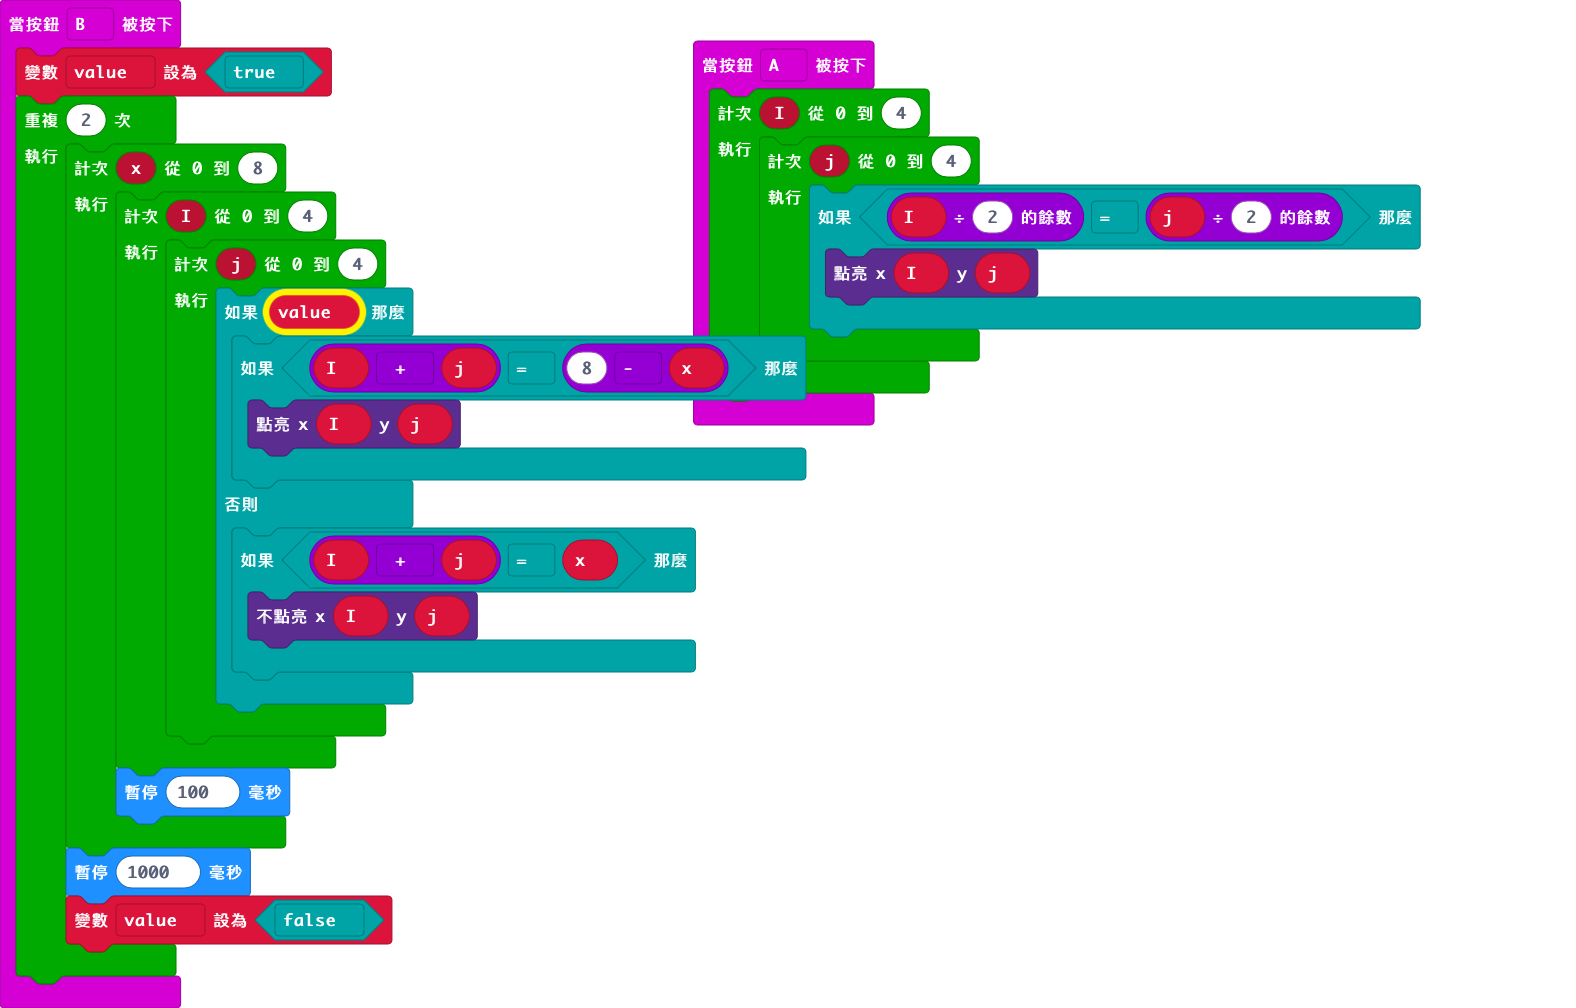
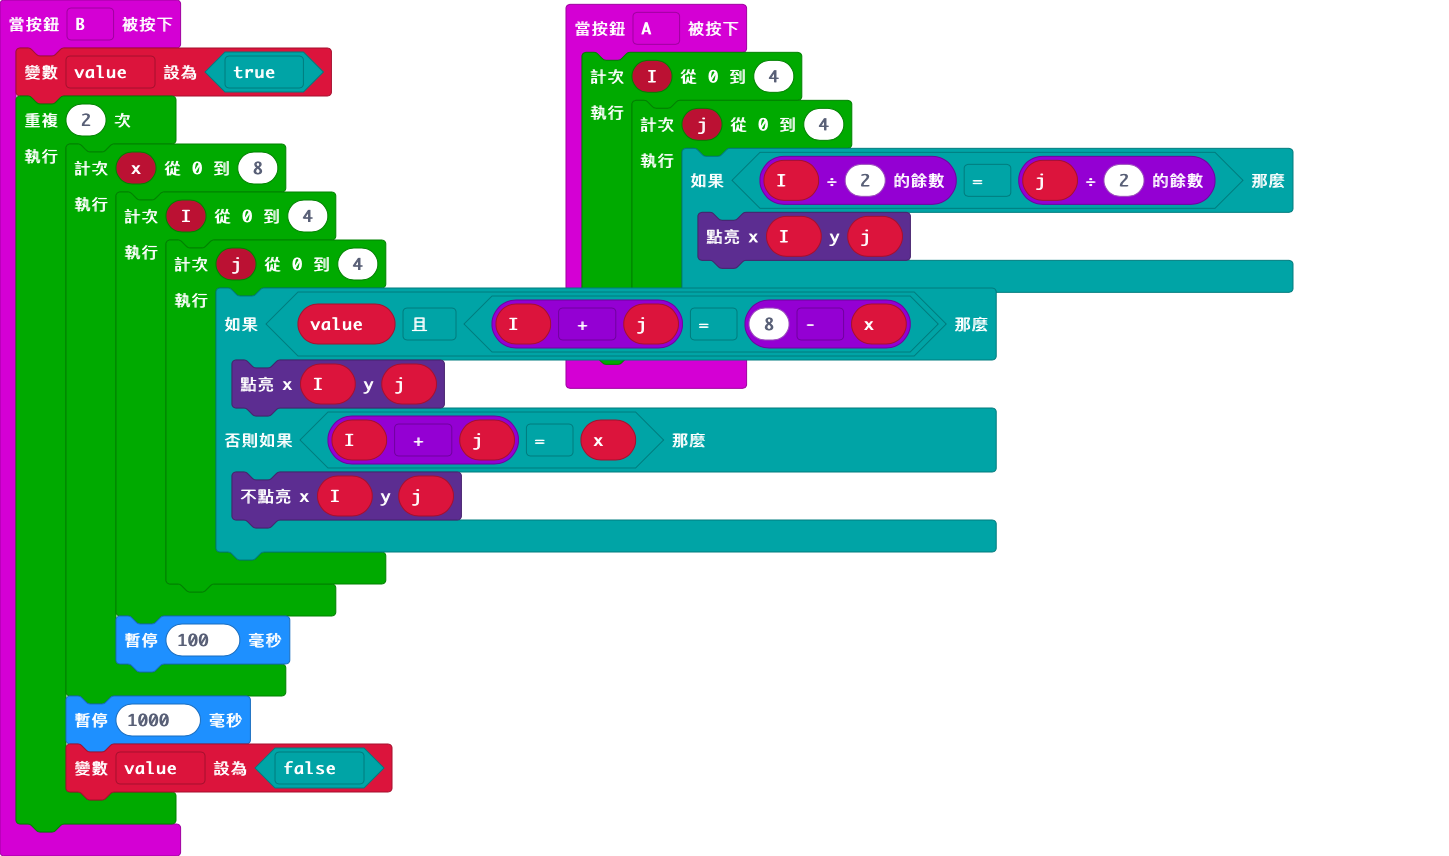
Update main.blocks, main.ts

Changed region(s): [[0.0, 0.0, 0.9006, 1.0]]

diff --git a/main.ts b/main.ts
@@ -14,14 +14,10 @@ input.onButtonPressed(Button.B, function () {
         for (let x = 0; x <= 8; x++) {
             for (let I = 0; I <= 4; I++) {
                 for (let j = 0; j <= 4; j++) {
-                    if (value) {
-                        if (I + j == 8 - x) {
-                            led.plot(I, j)
-                        }
-                    } else {
-                        if (I + j == x) {
-                            led.unplot(I, j)
-                        }
+                    if (value && I + j == 8 - x) {
+                        led.plot(I, j)
+                    } else if (I + j == x) {
+                        led.unplot(I, j)
                     }
                 }
             }
